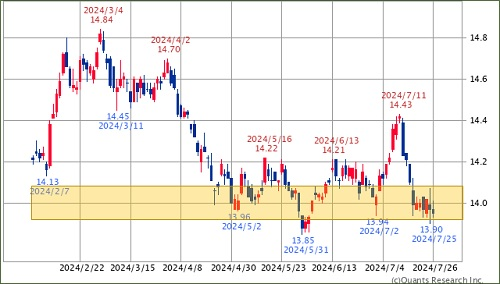
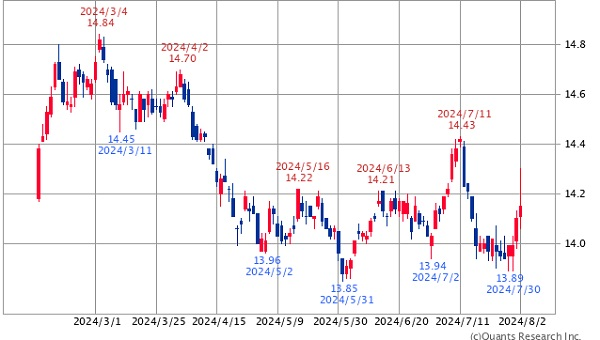
Add files via upload

Changed region(s): [[0.0, 0.0, 1.0, 1.0]]

diff --git a/viv1.py b/viv1.py
@@ -9,63 +9,67 @@ from PIL import Image
 st.title('ロング・ショート戦略')
 #color = st.color_picker('summer sales contest', '#87ceeb')
 
-#txt0 = '<p style="color:red;">※7月14日に米国にて暗殺未遂事件発生のため大荒れ要注意</p>'
-#st.write(txt0, unsafe_allow_html=True)
+txt0 = '<p style="color:red;">※NY時間に日経225が更に1000円下げ大荒れのため注意。月曜の朝にストップロスを巻き込んだ急落注意！</p>'
+st.write(txt0, unsafe_allow_html=True)
 
 
 st.write('テスト版')
 
-st.text('更新日7月28日')
+st.text('更新日8月4日')
 st.text(datetime.date.today())
 
 """
-### 今週のロング銘柄ショート銘柄
+##### 今週のロング銘柄ショート銘柄
+###### 今週は個別銘柄は見合せます
 """
-df1 = pd.DataFrame({
-    '買い銘柄':['日野自動車','ラウンドワン','メドピア','コシダHD','システナ'],
-    '現在価格':['453.4','894','618','966','339'],
-    '目標価格':['460','900','650','1000','350']
-})
-df1
 
-df2 = pd.DataFrame({
-    '売り銘柄':['出光興産','ヤマシンフィルタ','富士石油','日産自動車','東レ'],
-    '現在価格':['960.3','440','451','466.2','767'],
-    '目標価格':['930','420','412','425','742']
-})
-df2
+# df1 = pd.DataFrame({
 
-#st.dataframe(df)
-st.write('１．プライム市場の主要銘柄を選定')
-st.write('２．各々３銘柄を売買い保有')
-st.write('３．一定の利益または損失がでたら一括決済')
-txt1 = '<p style="color:blue;">先週の実績 買い推奨５銘柄計 -2.70%</p>'
+#     '買い銘柄':['日野自動車','ラウンドワン','メドピア','コシダHD','システナ'],
+#     '現在価格':['453.4','894','618','966','339'],
+#     '目標価格':['460','900','650','1000','350']
+# })
+# df1
+
+# df2 = pd.DataFrame({
+#     '売り銘柄':['出光興産','ヤマシンフィルタ','富士石油','日産自動車','東レ'],
+#     '現在価格':['960.3','440','451','466.2','767'],
+#     '目標価格':['930','420','412','425','742']
+# })
+# df2
+
+# #st.dataframe(df)
+# st.write('１．プライム市場の主要銘柄を選定')
+# st.write('２．各々３銘柄を売買い保有')
+# st.write('３．一定の利益または損失がでたら一括決済')
+txt1 = '<p style="color:blue;">先週の実績 買い推奨５銘柄計 -28.53%</p>'
 st.write(txt1, unsafe_allow_html=True)
-txt2 = '<p style="color:red;">先週の実績 売り推奨５銘柄計 +23.94%</p>'
+txt2 = '<p style="color:red;">先週の実績 売り推奨５銘柄計 +28.80%</p>'
 st.write(txt2, unsafe_allow_html=True)
+
 
 """
 ###  ＮＴ倍率
 """
 df3 = pd.DataFrame({
     '指数':['日経平均225'],
-    '現在価格':['38200'],
-    '上値抵抗':['38700'],
-    '下値支持':['36700']
+    '現在価格':['34800'],
+    '上値抵抗':['37700'],
+    '下値支持':['33800']
 })
 df3
 
 df4 = pd.DataFrame({
     '指数':['TOPIX'],
-    '現在価格':['2731.5'],
-    '上値抵抗':['2750'],
-    '下値支持':['2700']
+    '現在価格':['2452.5'],
+    '上値抵抗':['2600'],
+    '下値支持':['2400']
 })
 df4
 
 data = pd.DataFrame({
     'NT':['上値抵抗','現在','下値支持'],
-    'レシオ':['14.20','13.98','13.85']
+    'レシオ':['14.40','14.19','13.85']
     })
 data
 
@@ -82,39 +86,23 @@ st.write("投資の判断は自己責任で")
 image1 = Image.open('nt01.jpg')
 st.image(image1, caption='NTチャート',use_column_width=True)
 
-"""
-### 225・XAU・NAS100チャート 
-"""
-Image2 = Image.open('bt1.jpg')
-st.image(Image2,caption='225チャート日足',use_column_width=True)
+# """
+# ### 225・XAU・NAS100チャート 
+# """
+# Image2 = Image.open('bt1.jpg')
+# st.image(Image2,caption='225チャート日足',use_column_width=True)
 
-Image3 = Image.open('bt2.jpg')
-st.image(Image3,caption='XAUUSDチャート日足',use_column_width=True)
+# Image3 = Image.open('bt2.jpg')
+# st.image(Image3,caption='XAUUSDチャート日足',use_column_width=True)
 
-Image4 = Image.open('bt3.jpg')
-st.image(Image4,caption='NAS100チャート日足',use_column_width=True)
+# Image4 = Image.open('bt3.jpg')
+# st.image(Image4,caption='NAS100チャート日足',use_column_width=True)
 
 """
 #### 先物・オプション：シュミレーション
 """
 """
-### 先週のOP戦略は「プロテクティブ・プット」
-###### （225が上に行っても下に行っても利益）
-##### マイクロ先物8限 39590 2枚買い
-##### ミニプットオプション 7/4W
-##### 権利行使価格39,000
-##### プット1枚買い@140
-##### 想定証拠金43,000円
-###### SQ持込せずに一定の利益で決済予定
-##### 結果 SQ値 37835
-##### 先物-35100円 オプション+116500円　計+81400円
-
-"""
-"""
-##
-"""
-"""
-### 今週のOP戦略は「プロテクティブ・コール」
+### 先週のOP戦略は「プロテクティブ・コール」
 ###### （225の上昇予想。下振れでも利益。）
 ##### マイクロ先物8限 38235 3枚売り
 ##### ミニコールオプション 8/1W
@@ -122,8 +110,26 @@ st.image(Image4,caption='NAS100チャート日足',use_column_width=True)
 ##### コール1枚買い@150
 ##### 想定証拠金65,000円
 ###### SQ持込せずに一定の利益で決済予定
+##### 結果 SQ値 36,433
+##### 先物+54,060円 オプション-15,000円　計+39,060円
 
 """
+"""
+##
+"""
+"""
+### 今週のOP戦略は「プロテクティブ・コール」又は「コール裸買い」
+###### （プットOPは高IVで売買が厳しい為、安くなったコールで短期反発狙い）
+##### マイクロ先物8限 34,800 2枚売り
+##### ミニコールオプション 8/1W
+##### 権利行使価格37,000
+##### コール1枚買い@120
+##### 想定証拠金48,000円
+###### SQ持込せずに一定の利益で決済予定
+"""
+image5 = image.open('op1.jpg')
+st.image(image5,caption='オプション損益図',use_column_width=True)
+
 
 
 st.write('ご訪問ありがとうございます')
